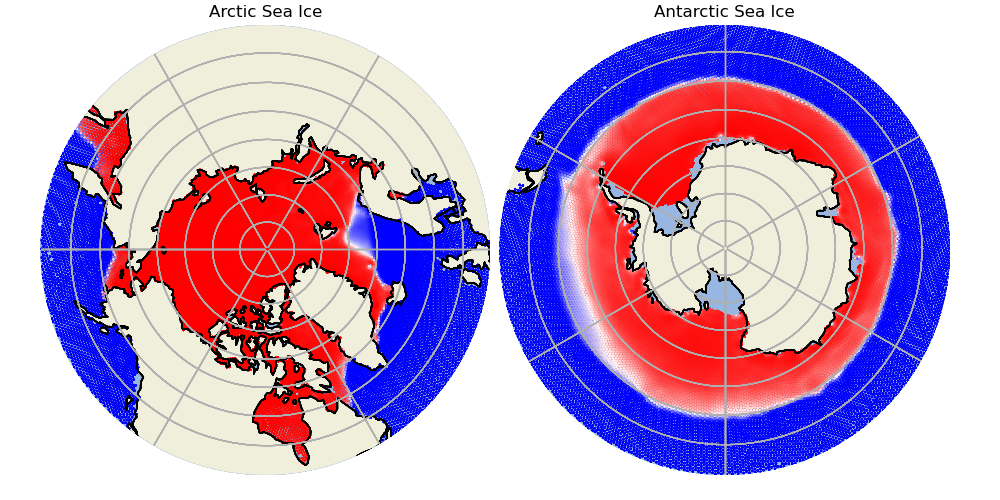
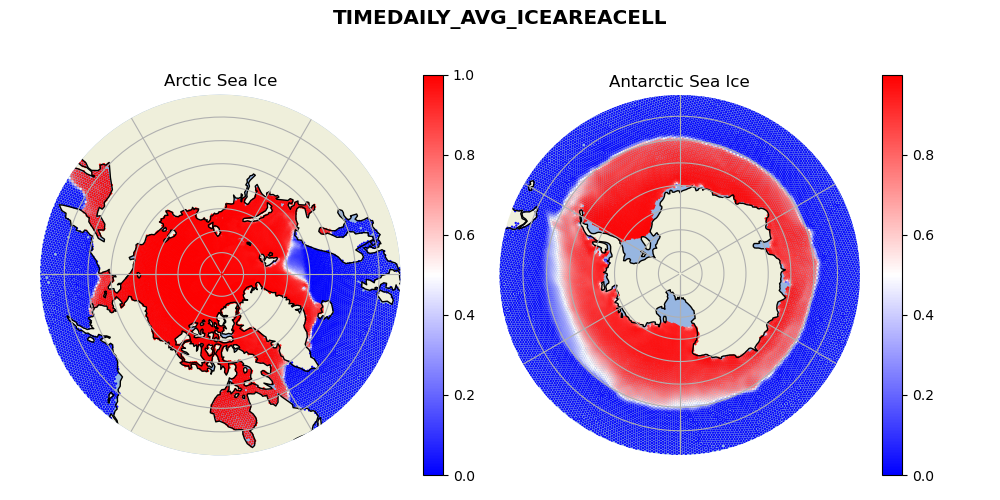
Working on pulling time from satellite .nc file

diff --git a/practice_plotting/plotting_track_animation.py b/practice_plotting/plotting_track_animation.py
@@ -14,6 +14,7 @@
 # $ python plotting_track_animation.py
 
 import numpy as np
+import time
 import matplotlib.animation as animation
 from e3sm_data_practice_visualization import *
 
@@ -30,12 +31,14 @@ def getLatLon(output):
     lonCell = lonCell.ravel()
     return latCell, lonCell
 
-def downsampleData(latCell, lonCell, variableToPlot1Day, factor):
+def getTime(output):
+    """ Pull the timestamp from the .nc file. """
+    timeCell = output.variables["time"][:1]
+    return timeCell.ravel()
+
+def downsampleData(latCell, lonCell, timeCell, variableToPlot1Day, factor):
     """ Downsample the data arrays by the given factor. """
-    latCell_ds = latCell[::factor]
-    lonCell_ds = lonCell[::factor]
-    variableToPlot1Day_ds = variableToPlot1Day[::factor]
-    return latCell_ds, lonCell_ds, variableToPlot1Day_ds
+    return latCell[::factor], lonCell[::factor], timeCell[::factor], variableToPlot1Day[::factor]
 
 def plotNorthAndSouthTrackAnimation():
 
@@ -46,13 +49,14 @@ def plotNorthAndSouthTrackAnimation():
         return scatterNorth, scatterSouth
     
     # Load the data to plot
-    output = loadData(runDir, outputFileName)
-    latCell, lonCell = getLatLon(output)
-    variableToPlot1Day = reduceToOneDay(output, keyVariableToPlot=VARIABLETOPLOT)
+    output              = loadData(runDir, outputFileName)
+    latCell, lonCell    = getLatLon(output)
+    timeCell            = getTime(output)
+    variableToPlot1Day  = reduceToOneDay(output, keyVariableToPlot=VARIABLETOPLOT)
 
     # Downsample the data
     factor = 100  # Downsampling factor
-    latCell, lonCell, variableToPlot1Day = downsampleData(latCell, lonCell, variableToPlot1Day, factor)
+    latCell, lonCell, timeCell, variableToPlot1Day = downsampleData(latCell, lonCell, timeCell, variableToPlot1Day, factor)
 
     # Plot the north and south poles
     fig, northMap, southMap = generateNorthandSouthPoleAxes()
@@ -78,20 +82,20 @@ def plotNorthPoleTrackAnimation():
         return scatterNorth
     
     # Load the data to plot
-    output = loadData(runDir, outputFileName)
-    latCell, lonCell = getLatLon(output)
-    variableToPlot1Day = reduceToOneDay(output, keyVariableToPlot=VARIABLETOPLOT)
+    output              = loadData(runDir, outputFileName)
+    latCell, lonCell    = getLatLon(output)
+    timeCell            = getTime(output)
+    variableToPlot1Day  = reduceToOneDay(output, keyVariableToPlot=VARIABLETOPLOT)
 
     # Downsample the data
     factor = 100  # Downsampling factor
-    latCell, lonCell, variableToPlot1Day = downsampleData(latCell, lonCell, variableToPlot1Day, factor)
+    latCell, lonCell, timeCell, variableToPlot1Day = downsampleData(latCell, lonCell, timeCell, variableToPlot1Day, factor)
 
     # Plot the north and south poles
     fig, northMap = generateNorthPoleAxes()
-    scatterNorth = generateNorthPoleMap(fig, northMap, latCell, lonCell, variableToPlot1Day, mapImageFileName, 1,1,1,1,1,7.0)
+    scatterNorth = generateNorthPoleMap(fig, northMap, latCell, lonCell, variableToPlot1Day, mapImageFileName, 1,1,1,1,1)
     print("Generated .png file")
 
-    import time
     startTime = time.time()
     ani = animation.FuncAnimation(fig=fig, func=update, frames=latCell.size, interval=1)
     ani.save(filename=animationFileName, writer="pillow")

diff --git a/practice_plotting/config.py b/practice_plotting/config.py
@@ -11,9 +11,10 @@ VARIABLETOPLOT  = 'freeboard'
 
 # Change if you want a wider or narrower view
 LAT_LIMIT       =  65  # More of a closeup
-# LAT_LIMIT       =  50  # Good wide view for the north and south poles;
+#LAT_LIMIT       =  50  # Good wide view for the north and south poles;
 
-DOT_SIZE        = 7.0
+#DOT_SIZE        = 0.4  # Good for the ice area variable
+DOT_SIZE        = 7.0  # Good for satellite tracks
 
 # Change these for different runs if you want to grab other .nc files
 runDir         = os.path.dirname(os.path.abspath(__file__))       # Get current directory path
@@ -25,22 +26,29 @@ meshFileName   = r"\mesh_files\seaice.EC30to60E2r2.210210.nc"    # for 5 day and
 outputFileName = r"\satellite_data_preprocessed\one_day\icesat_E3SM_spring_2008_02_22_14.nc" # One Satellite Track
 
 # subdirectory = r"/satellite_data_preprocessed/one_month" # Satellite Track folder for one month
-subdirectory = r"/satellite_data_preprocessed/one_day" # Satellite Track folder for one day
+subdirectory = r"/satellite_data_preprocessed/one_week" # Satellite Track folder for one day
+# subdirectory = r"/satellite_data_preprocessed/one_day" # Satellite Track folder for one day
 
 # Change these to save without overwriting your files
-animationFileName   = "satellite_track_2008_03_animation.gif"   # Should be a .gif extension
-mapImageFileName    = "satellite_track_2008_03.png"             # Should be a .png file extension
+animationFileName   = "satellite_track_2008_02_22_14_animation.gif"   # Should be a .gif extension
+mapImageFileName    = "satellite_track_2008_02_22_14.png"             # Should be a .png file extension
 
 # animationFileName   = "satellite_track_2008_02_22_14_animation.gif"   # Should be a .gif extension
 # mapImageFileName    = "satellite_track_2008_02_22_14.png"             # Should be a .png file extension
 
-# Map settings
-OCEANFEATURE    = 1   # These features are on
+################
+# Map settings #
+################
+
+# These features are on
+OCEANFEATURE    = 1   
 LANDFEATURE     = 1
 COASTLINES      = 1
 COLORBARON      = 1
+GRIDON          = 1
 
-GRIDON          = 0   # These features are off
+# These features are off
+# N/A
 
 # Constants
 MAXLONGITUDE    =  180

diff --git a/practice_plotting/e3sm_data_practice_visualization.py b/practice_plotting/e3sm_data_practice_visualization.py
@@ -203,15 +203,15 @@ def main():
     latCell, lonCell = loadMesh(runDir, meshFileName)
     output = loadData(runDir, outputFileName)
     print("Days total: ", getNumberOfDays(output, keyVariableToPlot=VARIABLETOPLOT))
-    variableToPlot1Day = reduceToOneDay(output, keyVariableToPlot=VARIABLETOPLOT, dayNumber=0)
+    variableToPlot1Day = reduceToOneDay(output, keyVariableToPlot=VARIABLETOPLOT, dayNumber=9)
     
     # Plot the north and south poles
     fig, northMap, southMap = generateNorthandSouthPoleAxes()
-    generateNorthandSouthPoleMaps(fig, northMap, southMap, latCell, lonCell, variableToPlot1Day, "seaice_both_poles")
+    generateNorthandSouthPoleMaps(fig, northMap, southMap, latCell, lonCell, variableToPlot1Day, "seaice_both_poles", dot_size=0.4)
 
     # Plot just the arctic
     fig, northMap = generateNorthPoleAxes()
-    generateNorthPoleMap(fig, northMap, latCell, lonCell, variableToPlot1Day, "seaice_north_pole")
+    generateNorthPoleMap(fig, northMap, latCell, lonCell, variableToPlot1Day, "seaice_north_pole", dot_size=0.4)
 
 if __name__ == "__main__":
     main()
